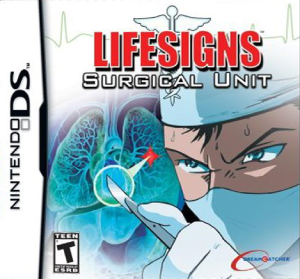
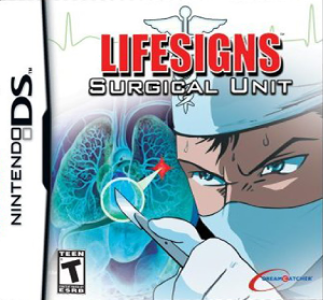
Fixed 05images

diff --git a/05images/reviews.html b/05images/reviews.html
@@ -36,28 +36,28 @@
         <div class="upcominggall">
         
         <figure>
-            <img src="images/lifesigns/lifesigns.png" alt="The DS box art of LifeSigns: Surgical Unit" width="300" height="279" loading="lazy">
+            <img src="images/lifesigns/lifesigns.png" alt="The DS box art of LifeSigns: Surgical Unit" width="323" height="300" loading="lazy">
         <figcaption>NEXT: <a href="lifesigns.html">LifeSigns: Surgical Unit</a> (Video Game 2005)</figcaption>
         </figure>
         
         <figure>
-            <img src="images/sweetfuse/sweetfuse.png" alt="PSP box art of Sweet Fuse: By Your Side" width="300" height="520" loading="lazy">
+            <img src="images/sweetfuse/sweetfuse.png" alt="PSP box art of Sweet Fuse: By Your Side" width="173" height="300" loading="lazy">
             <figcaption><a href="sweetfuse.html">Sweet Fuse: By Your Side</a> (Video Game 2012)
             </figcaption>
         </figure>
             
         <figure>
-            <img src="images/myhime/myhime.png" alt="A promotional image of My-HiMe" width="300" height="450" loading="lazy">
+            <img src="images/myhime/myhime.png" alt="A promotional image of My-HiMe" width="200" height="300" loading="lazy">
             <figcaption><a href="myhime.html">My-HiMe</a> (TV Series 2004)</figcaption>
         </figure>
             
         <figure>
-            <img src="images/styx/styxmos.png" alt="Promotional image of Styx: Master of Shadows" width="300" height="421" loading="lazy">
+            <img src="images/styx/styxmos.png" alt="Promotional image of Styx: Master of Shadows" width="214" height="300" loading="lazy">
             <figcaption><a href="styx.html">Styx: Master of Shadows</a> (Video Game 2014)</figcaption>
         </figure>
             
         <figure>
-            <img src="images/timehollow/timehollow.png" alt="DS box art of Time Hollow" width="300" height="316" loading="lazy">
+            <img src="images/timehollow/timehollow.png" alt="DS box art of Time Hollow" width="285" height="300" loading="lazy">
             <figcaption><a href="timehollow.html">Time Hollow</a> (Video Game 2008)
             </figcaption>
         </figure>
@@ -69,7 +69,7 @@
         </figure>
             
         <figure>
-            <img src="images/hauntedjunction/hauntedjunction.png" alt="DS box art of Time Hollow" width="300" height="450" loading="lazy">
+            <img src="images/hauntedjunction/hauntedjunction.png" alt="DS box art of Time Hollow" width="200" height="300" loading="lazy">
             <figcaption><a href="hauntedjunction.html">Haunted Junction</a> (TV Series 1997)
             </figcaption>
         </figure>
